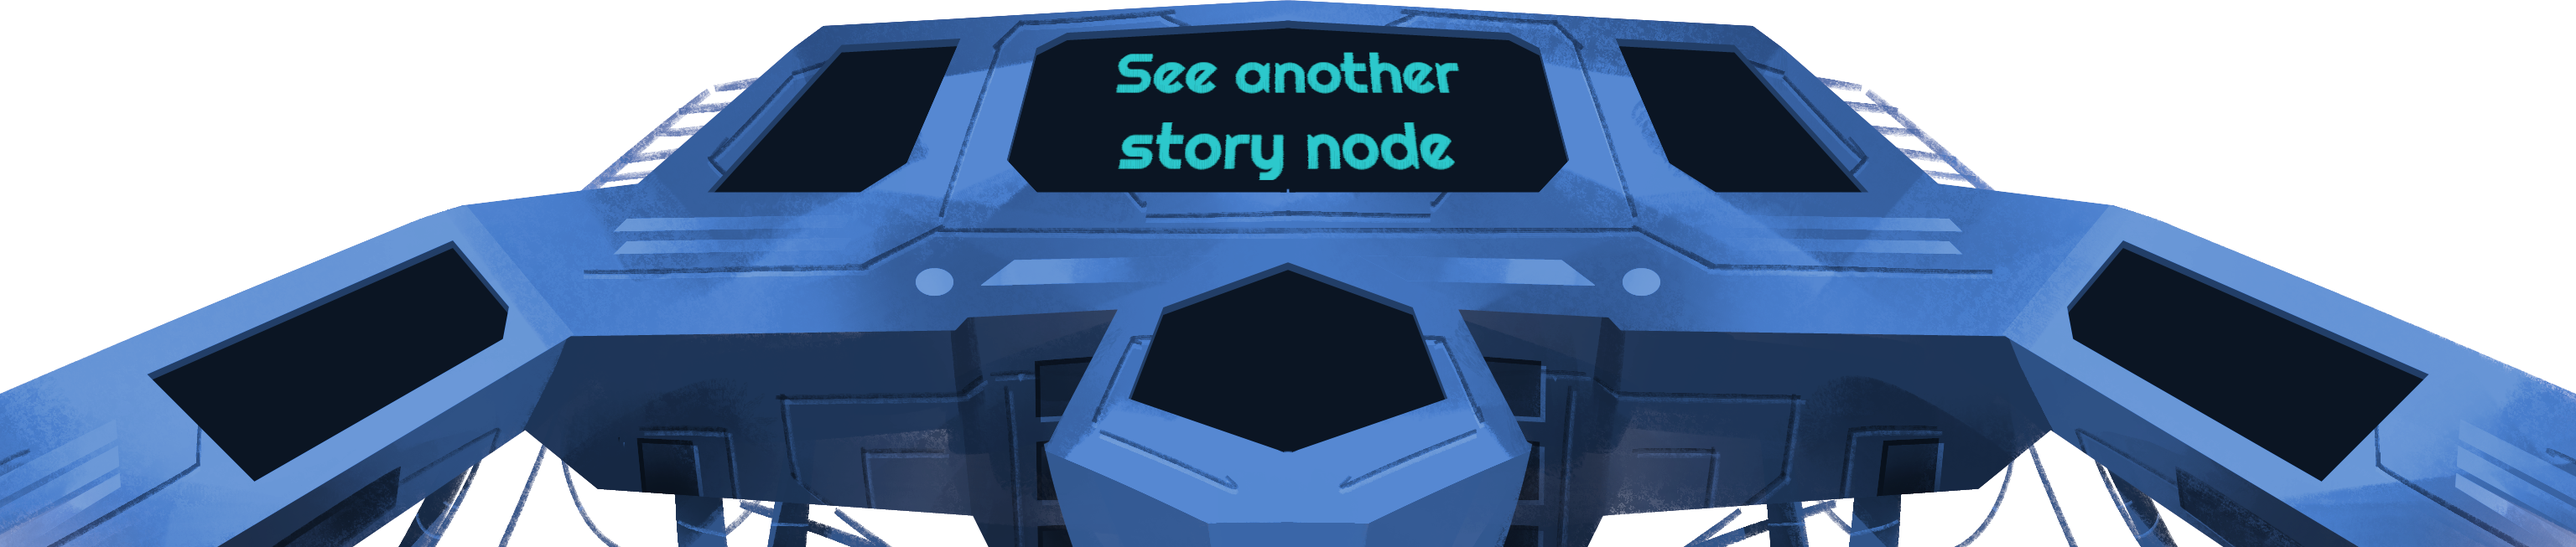
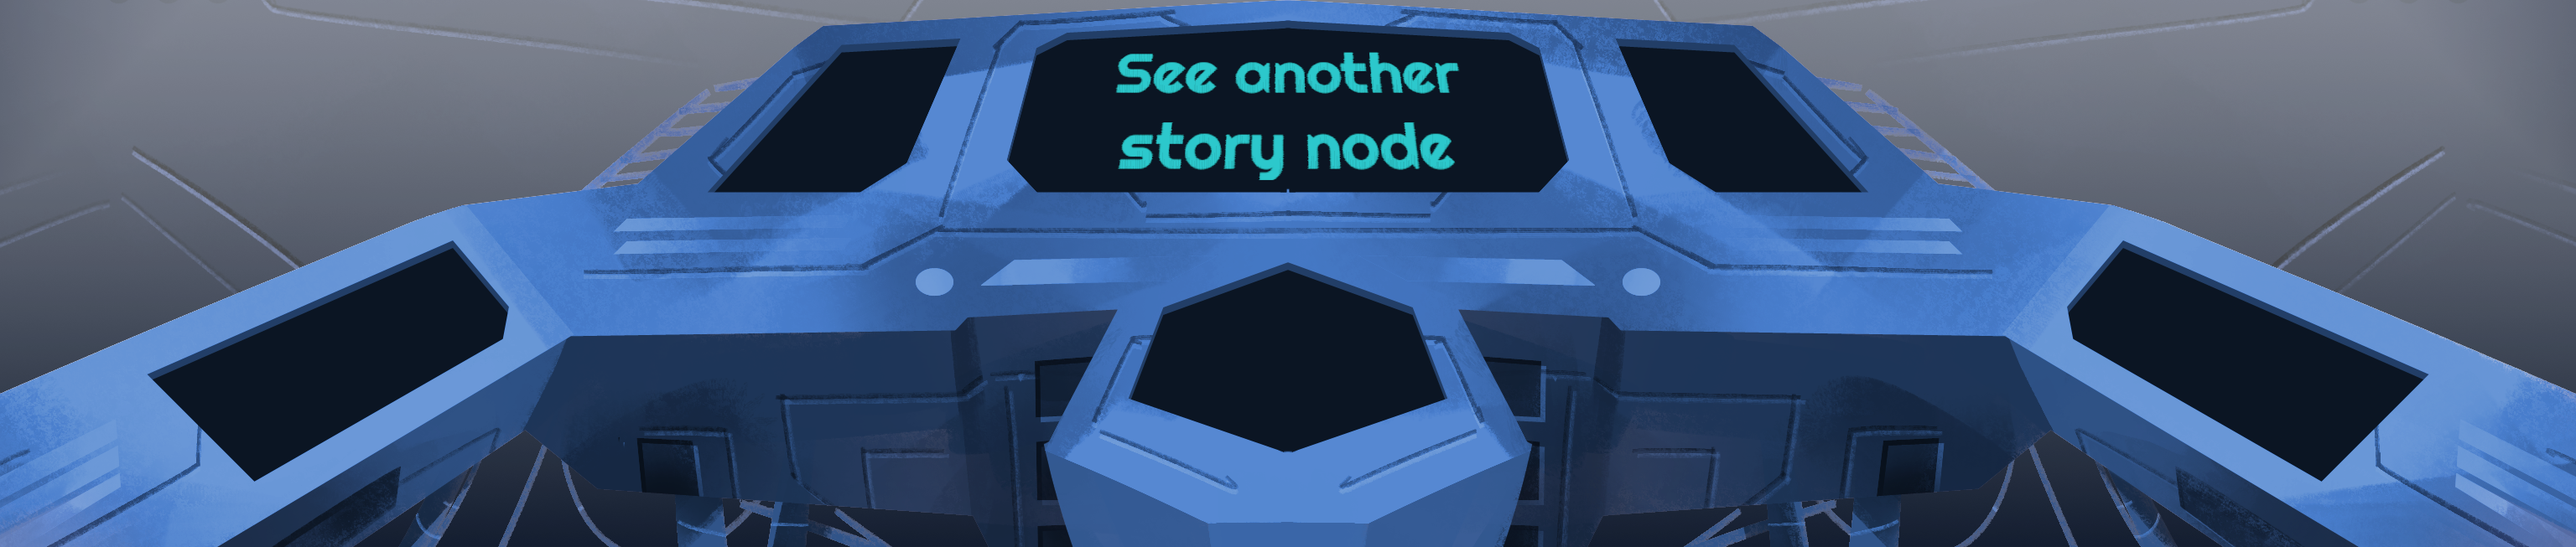
Mobile look fixes

diff --git a/src/responsive.js b/src/responsive.js
@@ -4,9 +4,9 @@ import { nftTiles, nftTilesName, nftTilesClass, nftTotal, nftSelected } from "./
 
 
 function mobileView() {
-  storyTitle.style.fontSize = '1.4em';
-  storyDuration.style.fontSize = '1.1em';
-  storyDuration.style.marginBottom = '2vw';
+  storyTitle.style.fontSize = '1.1em';
+  storyDuration.style.fontSize = 'inherit';
+  storyDuration.style.marginBottom = '4vw';
   storyText.style.visibility = 'visible';
 
   displayImage.src = 'assets/displayMobile.png';
@@ -65,6 +65,7 @@ function textOnScreen() {
   storyText.style.height = '43.6vw';
   storyText.style.fontSize = '2vw';
   storyText.style.lineHeight = '3vw';
+  storyText.style.marginBottom = '';
 }
 
 function textOutScreen() {
@@ -76,6 +77,7 @@ function textOutScreen() {
   storyText.style.height = 'auto';
   storyText.style.fontSize = 'inherit';
   storyText.style.lineHeight = 'inherit';
+  storyText.style.marginBottom = '2vw';
 }
 
 
@@ -96,15 +98,19 @@ function optionsOnScreen() {
     }
   }
   storyOptions.style.whiteSpace = 'nowrap';
+  storyOptions.style.marginLeft = '';
+  storyOptions.style.marginBottom = '';
 }
 
 function optionsOutScreen() {
   storyOptions.style.position = 'static';
   storyOptions.style.top = '';
-  storyOptions.style.width = 'auto';
+  storyOptions.style.width = '95vw';
   storyOptions.style.height = 'auto';
-  storyOptions.style.fontSize = '1.2em';
+  storyOptions.style.fontSize = '1.1em';
   storyOptions.style.whiteSpace = 'wrap';
+  storyOptions.style.marginLeft = '-2.5vw';
+  storyOptions.style.marginBottom = '4vw';
 }
 
 

diff --git a/styles.css b/styles.css
@@ -49,10 +49,14 @@ table {
 
 /* General */
 
+html {
+  background-image: linear-gradient(#010020, #192138);
+  background-color: #010020;
+}
+
 body {
   overflow-x: hidden;
   box-sizing: border-box;
-  background-image: linear-gradient(#010020, #192138);
   font-family: "PT Serif Caption", serif;
   font-size: 1em;
   color: #dedede;
@@ -135,6 +139,7 @@ img {
   text-align: center;
   margin-bottom: -2vw;
   -webkit-text-stroke: 0.05vw #33E2E6;
+  color: #bebebe;
 }
 
 .text {
@@ -151,7 +156,7 @@ img {
   list-style: circle inside;
   margin: 2vw;
   padding-left: 3vw;
-  font-size: 1.2em;
+  font-size: 1.1em;
   line-height: 2em;
   white-space: nowrap;
   overflow-y: hidden;
